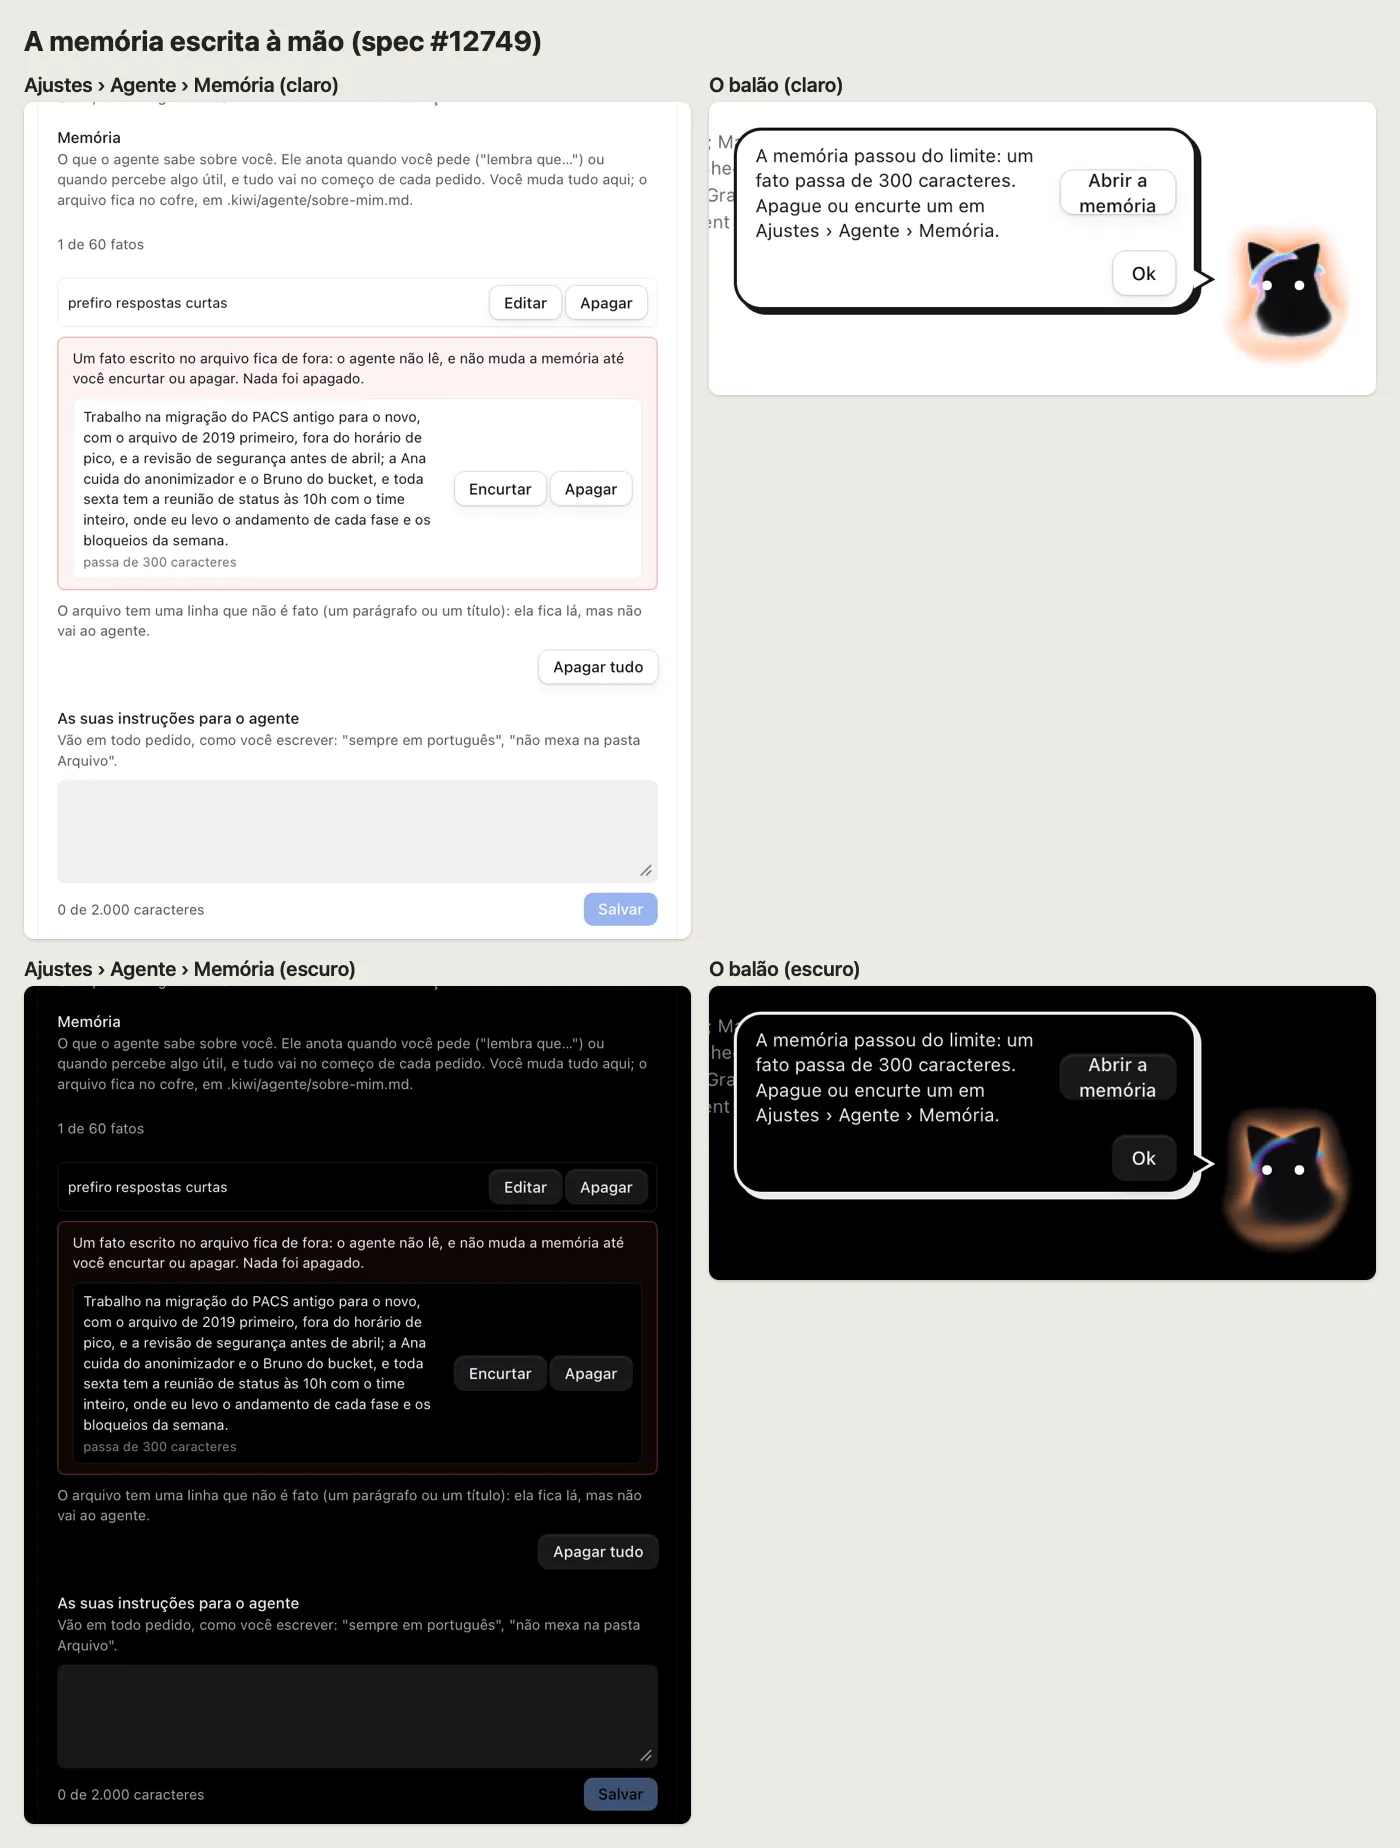
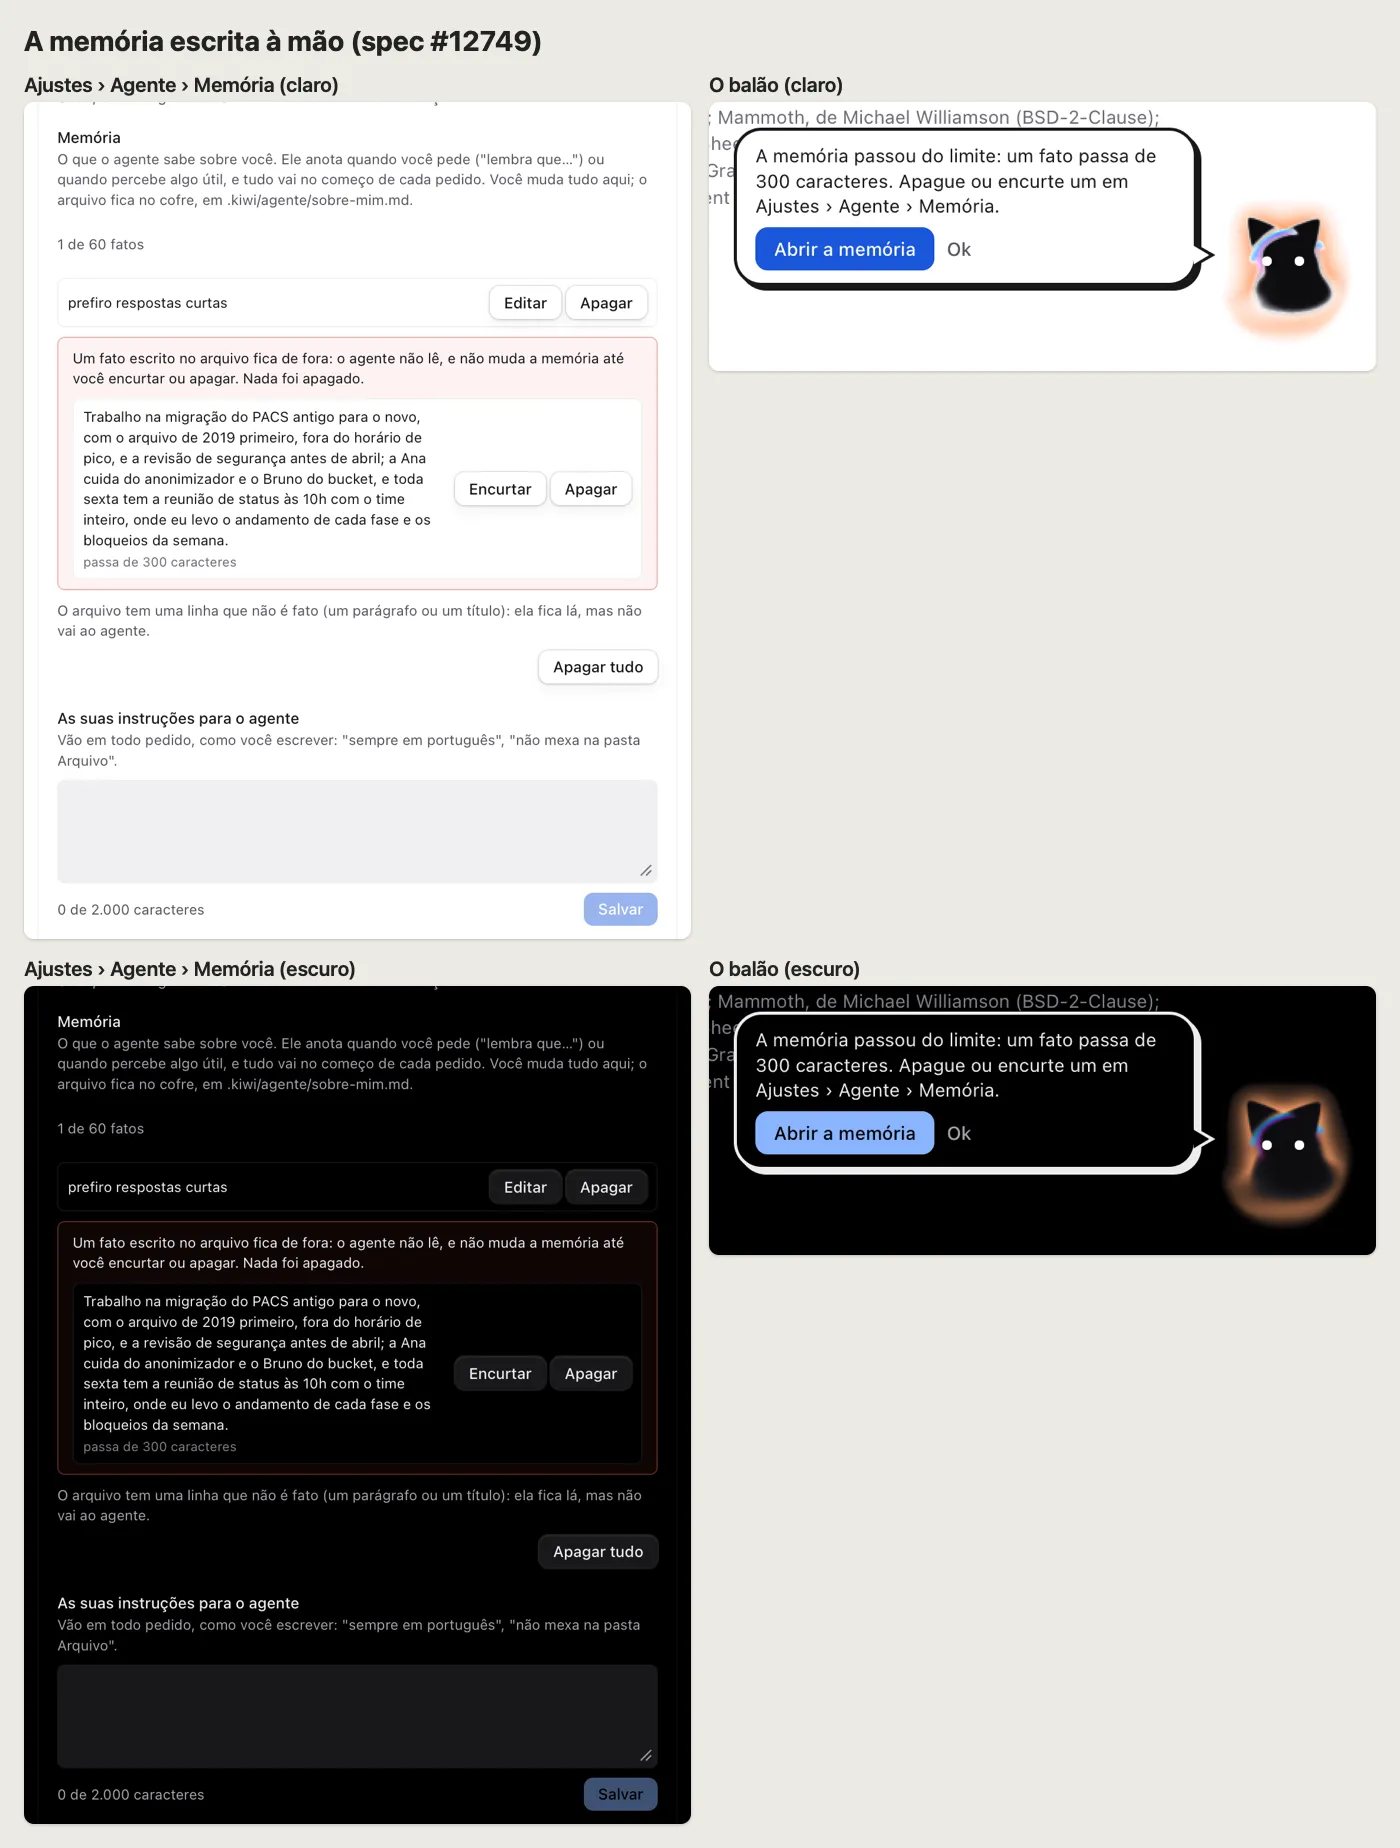
O aviso da memória com as ações numa linha embaixo do texto (T12771, revisão do lead #12811)
[Abrir a memória] é a ação principal e o Ok fica em texto, como no balão da proposta. O balão "Anotei" continua com o
[Desfazer] em cada linha e o Ok de sempre.

diff --git a/app/ui/hub/MemoryBubble.tsx b/app/ui/hub/MemoryBubble.tsx
@@ -60,6 +60,7 @@ export function MemoryBubble({ hidden, onShown, reduced = false }: { hidden: boo
 
   useEffect(() => onShown?.(changes.length > 0), [changes.length > 0]);
   const showing = changes.length > 0 && !hidden;
+  const warn = changes.some((c) => c.action === "full" || c.action === "over");
   // O tempo conta só com o balão na tela (spec #12749): ele espera o balão da resposta sair, e uma resposta longa não o
   // faz sumir antes de aparecer. Uma mudança nova ou um [Desfazer] recomeça a conta.
   useEffect(() => {
@@ -82,23 +83,34 @@ export function MemoryBubble({ hidden, onShown, reduced = false }: { hidden: boo
               <li key={c.id} className="kn-memory-item">
                 <span className="kn-memory-line">{memoryBubbleLine(c)}</span>
                 {!c.undone && c.action !== "full" && c.action !== "over" ? <Button onClick={() => undo(c.id)}>Desfazer</Button> : null}
-                {(c.action === "full" || c.action === "over") && nav ? (
-                  <Button
-                    onClick={() => {
-                      close();
-                      nav.openSettings("agent", MEMORY_TITLE);
-                    }}
-                  >
-                    Abrir a memória
-                  </Button>
-                ) : null}
               </li>
             ))}
           </ul>
           {failure ? <p className="kn-memory-note">{failure}</p> : null}
-          <div className="kn-memory-actions">
-            <Button onClick={close}>Ok</Button>
-          </div>
+          {/* O aviso (a memória cheia ou acima do limite) tem uma ação principal, numa linha embaixo do texto, como o balão
+              da proposta: [Abrir a memória], e o Ok em texto (revisão do T12771). */}
+          {warn ? (
+            <div className="kn-memory-actions" data-warn="true">
+              {nav ? (
+                <Button
+                  variant="primary"
+                  onClick={() => {
+                    close();
+                    nav.openSettings("agent", MEMORY_TITLE);
+                  }}
+                >
+                  Abrir a memória
+                </Button>
+              ) : null}
+              <Button data-role="dismiss" onClick={close}>
+                Ok
+              </Button>
+            </div>
+          ) : (
+            <div className="kn-memory-actions">
+              <Button onClick={close}>Ok</Button>
+            </div>
+          )}
         </div>
       ) : null}
     </BubblePresence>

diff --git a/app/ui/hub/hub.css b/app/ui/hub/hub.css
@@ -439,3 +439,7 @@
 .kn-routine-actions { display: flex; justify-content: flex-end; flex-wrap: wrap; gap: 6px; }
 .kn-memory-note { margin: 0; font-size: var(--text-xs, 0.85em); color: var(--text-2); }
 .kn-memory-actions { display: flex; gap: 4px; justify-content: flex-end; }
+/* O aviso da memória (revisão do T12771): [Abrir a memória] na frente e o Ok em texto, como no balão da proposta. */
+.kn-memory-actions[data-warn="true"] { justify-content: flex-start; align-items: center; }
+.kn-memory-actions[data-warn="true"] .kn-button[data-role="dismiss"] { padding: 0 var(--space-1, 4px); border-color: transparent; background: none; box-shadow: none; color: var(--text-2); }
+.kn-memory-actions[data-warn="true"] .kn-button[data-role="dismiss"]:hover { color: var(--text); background: none; }
